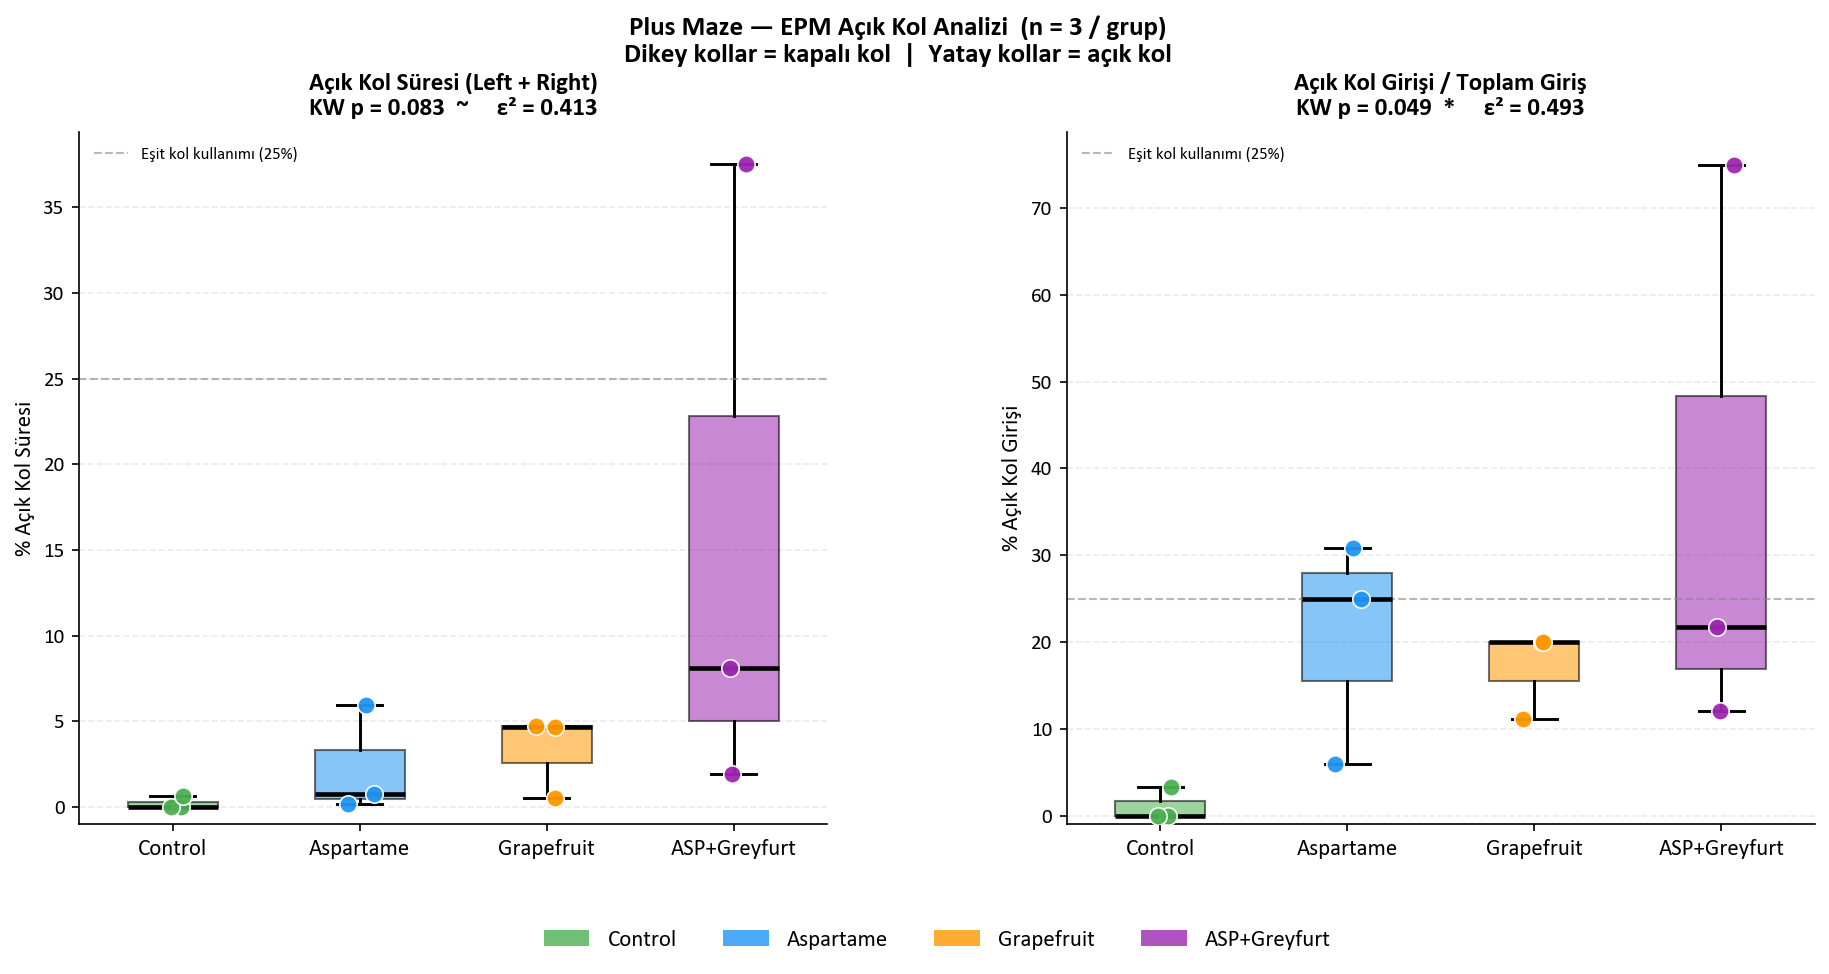
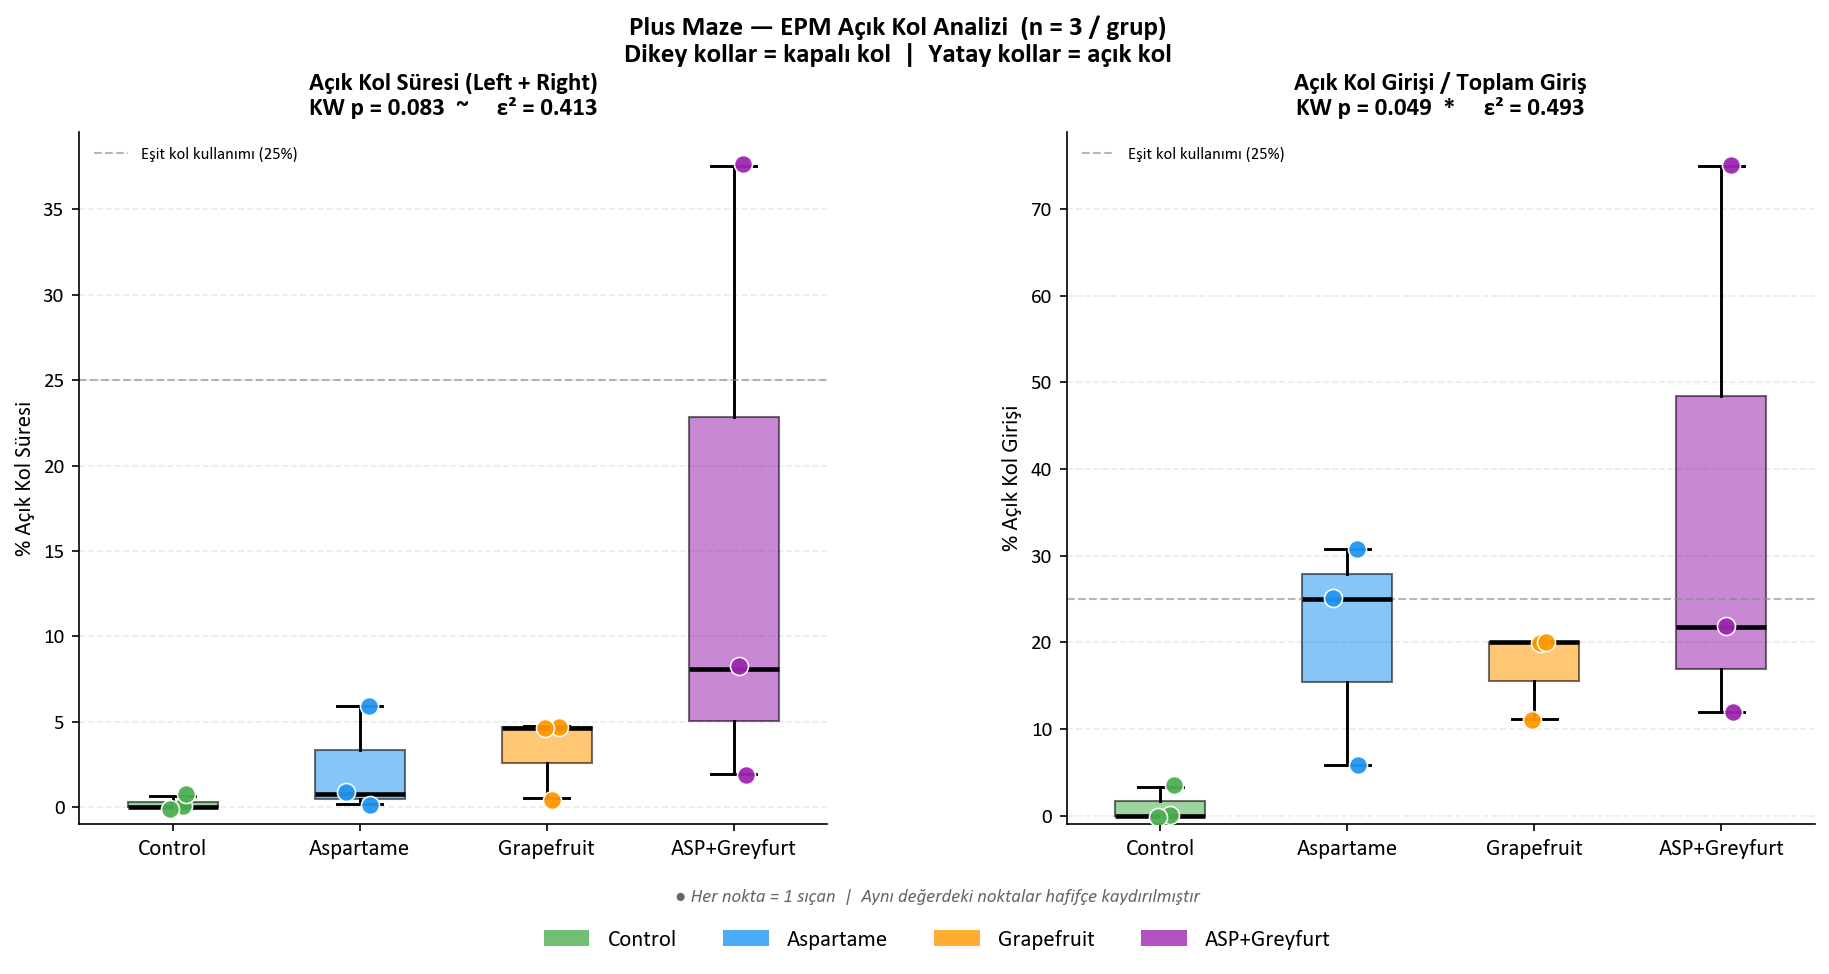
fix(plots): show small arm segments with arrows, add y-jitter to prevent dot overlap
arm_distribution: annotate segments < 3% with arrow outside the bar instead of
hiding them; threshold lowered to 0.3%. open_arm_box: add small y-jitter so
overlapping dots (same-value rats) become distinguishable; add footnote
explaining each dot = 1 rat.

diff --git a/analysis/tmaze/plot_open_arm.py b/analysis/tmaze/plot_open_arm.py
@@ -47,13 +47,16 @@ COHORT_COLORS = {
 }
 
 
-def strip_jitter(ax, data_by_group, colors, x_positions, jitter=0.08):
+def strip_jitter(ax, data_by_group, colors, x_positions, jitter=0.10):
+    """Her nokta = 1 sıçan. X ve Y yönünde hafif kaydırma ile örtüşme önlenir."""
     rng = np.random.default_rng(42)
     for xi, (grp, vals) in zip(x_positions, data_by_group.items()):
-        jit = rng.uniform(-jitter, jitter, size=len(vals))
-        ax.scatter(xi + jit, vals,
+        jit_x = rng.uniform(-jitter, jitter, size=len(vals))
+        # Aynı y değerindeki noktaları ayırt etmek için küçük y jitter
+        jit_y = rng.uniform(-0.15, 0.15, size=len(vals))
+        ax.scatter(xi + jit_x, vals + jit_y,
                    color=colors[grp], edgecolors="white",
-                   linewidths=0.8, s=70, zorder=5, alpha=0.95)
+                   linewidths=0.8, s=75, zorder=5, alpha=0.95)
 
 
 def p_stars(p: float) -> str:
@@ -147,6 +150,8 @@ def plot_open_arm_box():
         "Dikey kollar = kapalı kol  |  Yatay kollar = açık kol",
         fontsize=13, fontweight="bold", y=0.99,
     )
+    fig.text(0.52, 0.085, "● Her nokta = 1 sıçan  |  Aynı değerdeki noktalar hafifçe kaydırılmıştır",
+             ha="center", va="center", fontsize=9, color="#666666", style="italic")
 
     out = FIGS / "epm_open_arm_by_cohort.png"
     fig.savefig(out, dpi=150, bbox_inches="tight")
@@ -173,22 +178,57 @@ def plot_arm_distribution():
                .reindex(COHORT_ORDER)
                .reset_index())
 
-    fig, ax = plt.subplots(figsize=(10, 5.5))
-    fig.subplots_adjust(right=0.80)
+    fig, ax = plt.subplots(figsize=(11, 6.5))
+    fig.subplots_adjust(right=0.78, top=0.88)
 
     x      = np.arange(len(COHORT_ORDER))
     bottom = np.zeros(len(COHORT_ORDER))
 
+    # Küçük segmentler için sonradan ok+etiket eklemek üzere sakla
+    small_annotations = []  # (xi, seg_mid_y, value_str, color)
+
     for col, label, color in zip(arm_cols, arm_labels, arm_colors):
         vals = means[col].values
         ax.bar(x, vals, bottom=bottom, label=label,
-               color=color, edgecolor="white", linewidth=0.6, alpha=0.88)
+               color=color, edgecolor="white", linewidth=0.8, alpha=0.88)
         for xi, (v, b) in enumerate(zip(vals, bottom)):
-            if v > 3:
-                ax.text(xi, b + v / 2, f"{v:.0f}%",
+            seg_mid = b + v / 2
+            if v >= 3:
+                # Büyük segment: etiket içeride
+                ax.text(xi, seg_mid, f"{v:.0f}%",
                         ha="center", va="center", fontsize=9,
                         color="white", fontweight="bold")
+            elif v >= 0.3:
+                # Küçük segment: ok ile bar dışında göster
+                small_annotations.append((xi, seg_mid, f"{v:.1f}%", color))
         bottom += vals
+
+    # Küçük segmentler için annotate — ok bar'dan dışarı çıkıyor
+    # Sağ tarafta yığılma yapmamak için xi'ye göre offset seç
+    used_y = []  # çakışma önleme
+    for xi, y_mid, txt, color in small_annotations:
+        # Ok ucunun x konumu: barın sağ kenarı dışında
+        x_tip  = xi + 0.26
+        # y konumunu kullanılmış olanlardan kaçıracak şekilde ayarla
+        y_txt = y_mid
+        for used in used_y:
+            if abs(y_txt - used) < 4:
+                y_txt = used + 4
+        used_y.append(y_txt)
+
+        ax.annotate(
+            txt,
+            xy=(x_tip - 0.01, y_mid),        # ok ucu: segmentin ortası
+            xytext=(x_tip + 0.35, y_txt),     # metin konumu
+            fontsize=8.5, color="#333333", fontweight="bold",
+            arrowprops=dict(
+                arrowstyle="-",
+                color=color,
+                lw=1.5,
+                connectionstyle="arc3,rad=0.0",
+            ),
+            va="center", ha="left",
+        )
 
     ax.set_xticks(x)
     ax.set_xticklabels(COHORT_ORDER, fontsize=12)
